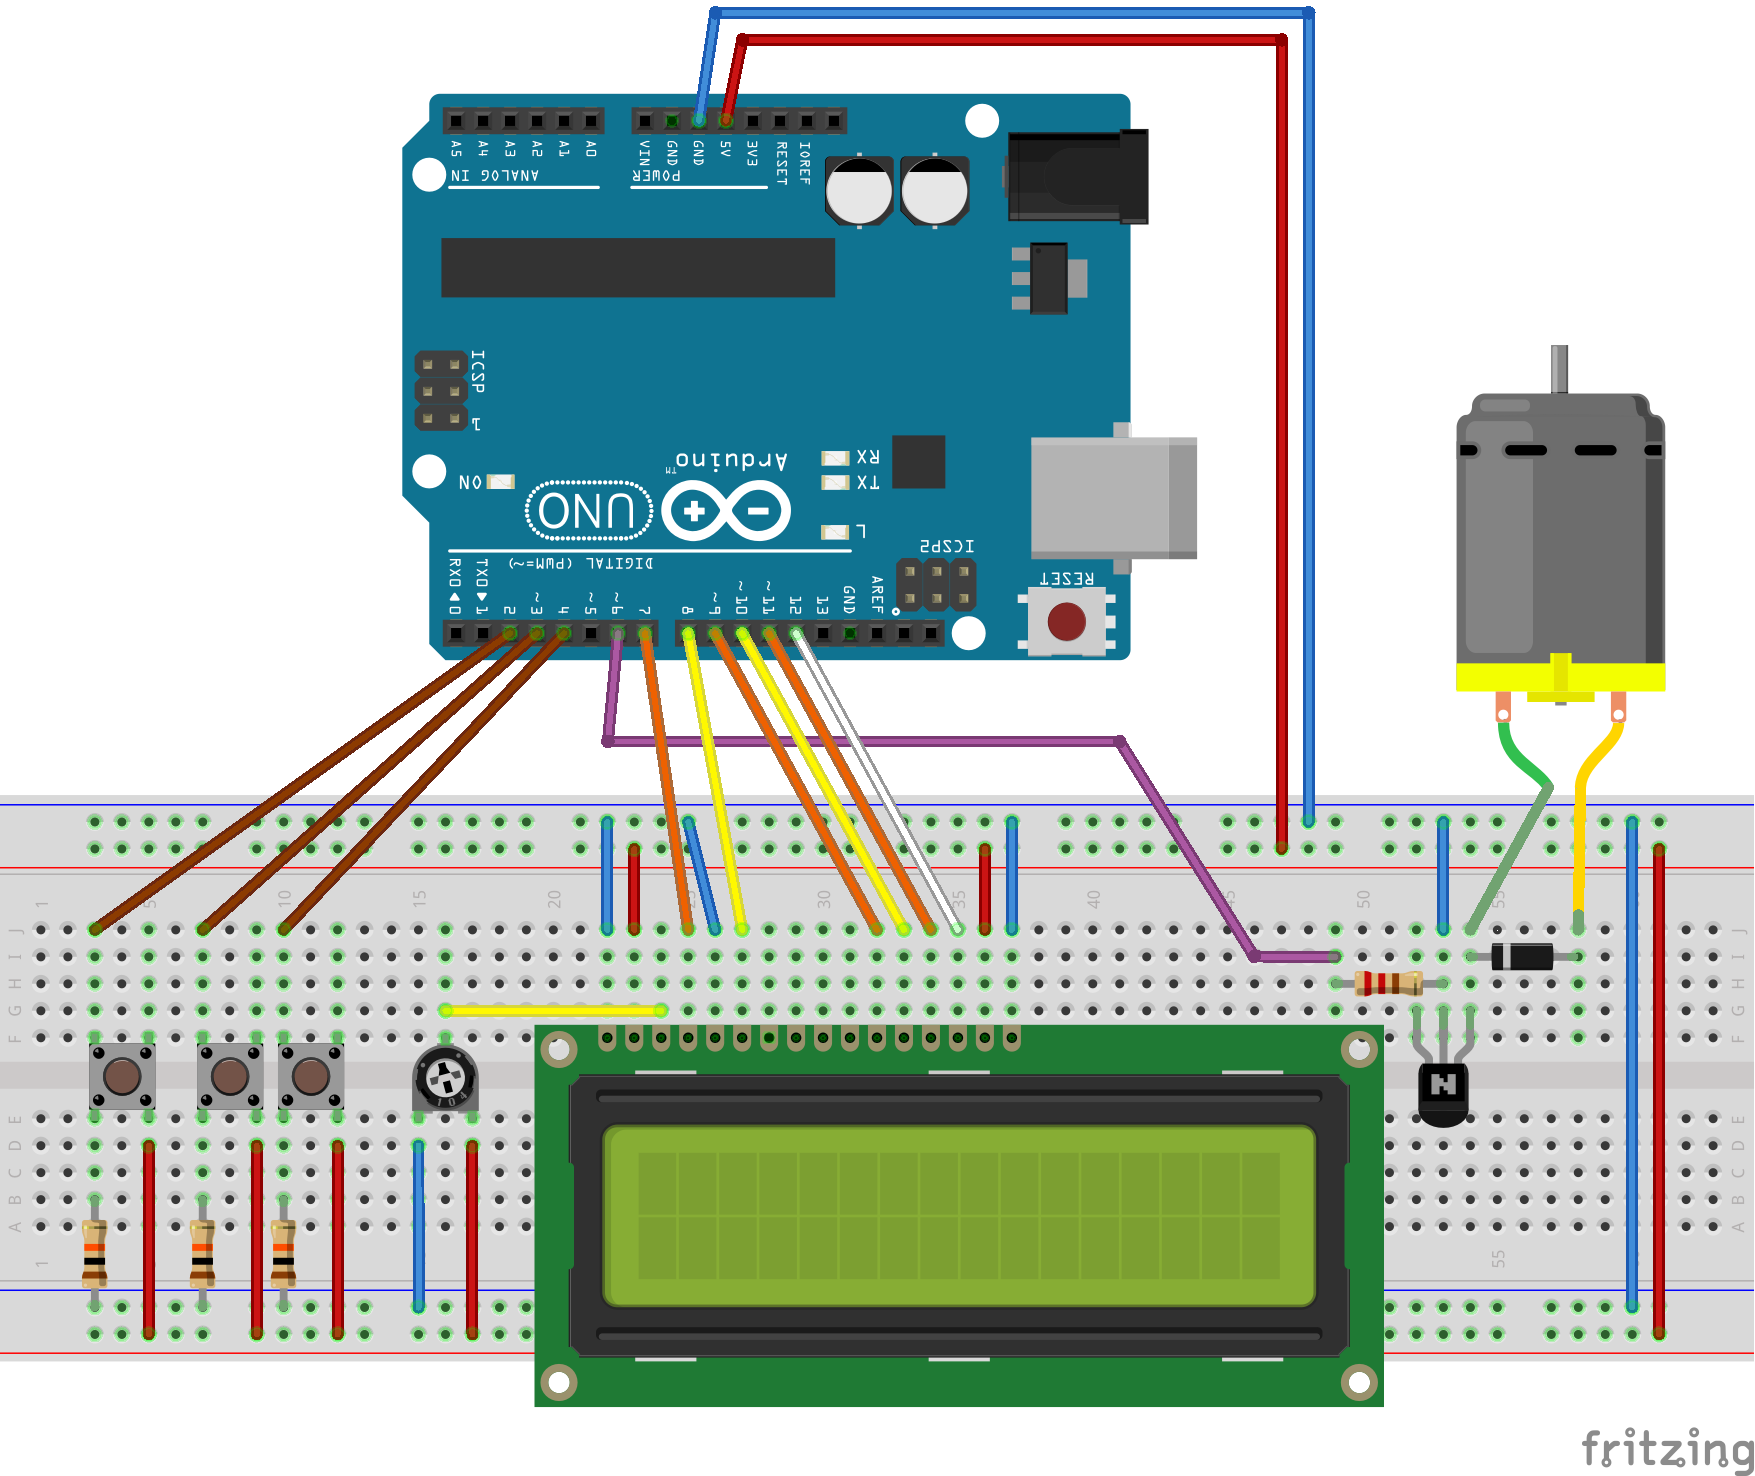
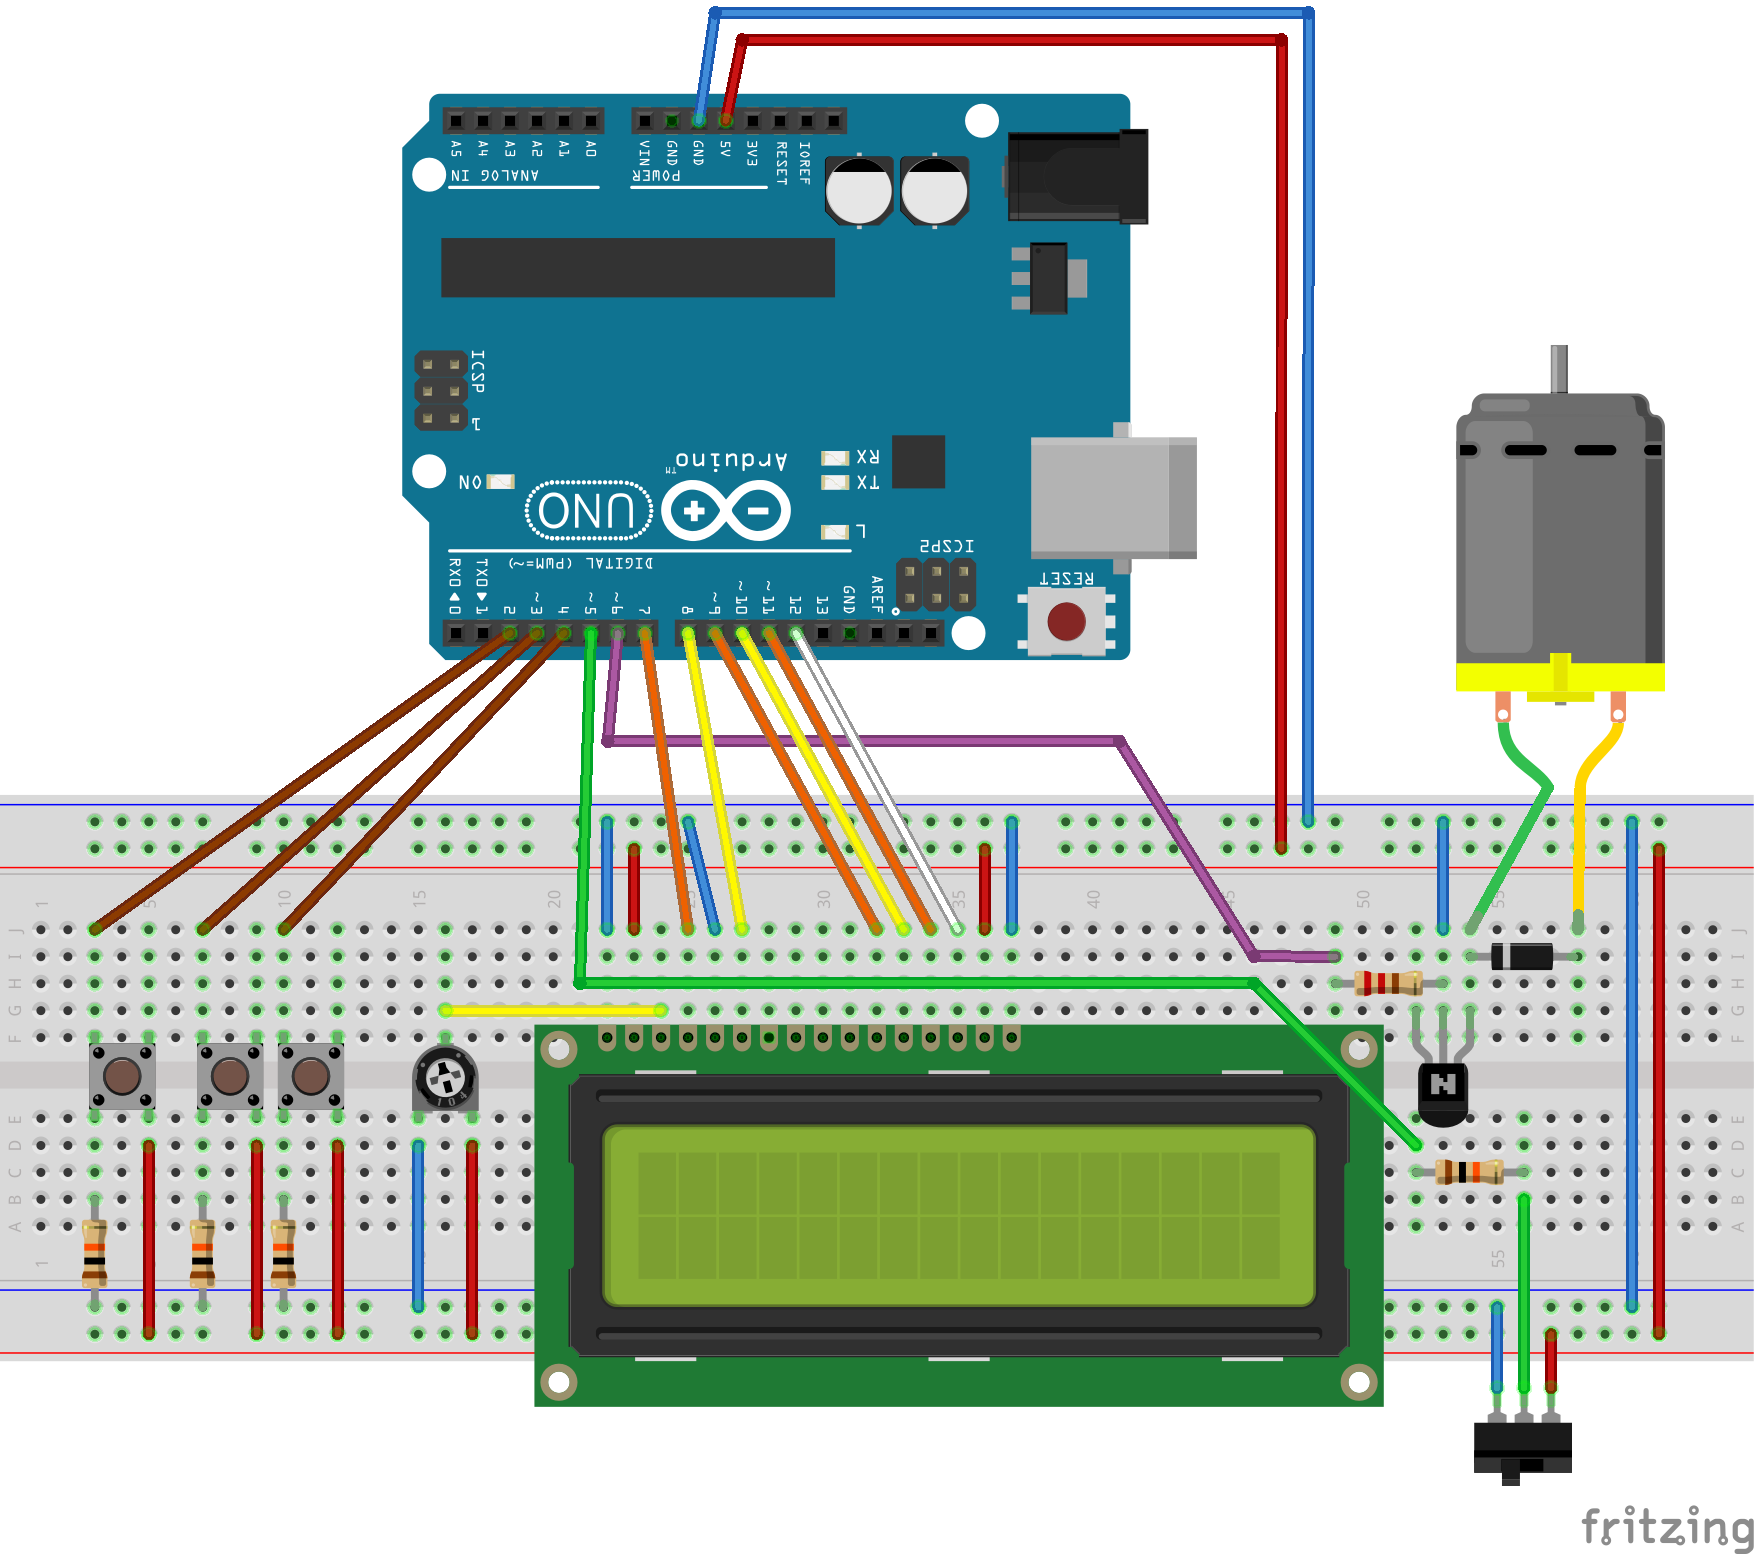
Collision test

diff --git a/README.md b/README.md
@@ -10,10 +10,12 @@ In development, soon.
 * 1x DC Motor
 * 1x NPN-Transistor
 * 1x Trimmer Potentiometer 10kΩ
-* 3x 10kΩ Resistor bands 4; tolérance ±5%
+* 4x 10kΩ Resistor bands 4; tolérance ±5%
 * 1x 220Ω Resistor bands 4; tolérance ±5%
 * 3x Pushbutton
+* 1x Toggle Switch
 
 ## TODO
 * Define radius of wheel
-* Test collision to stop
+* Time
+* Custom delay, distance and duration
